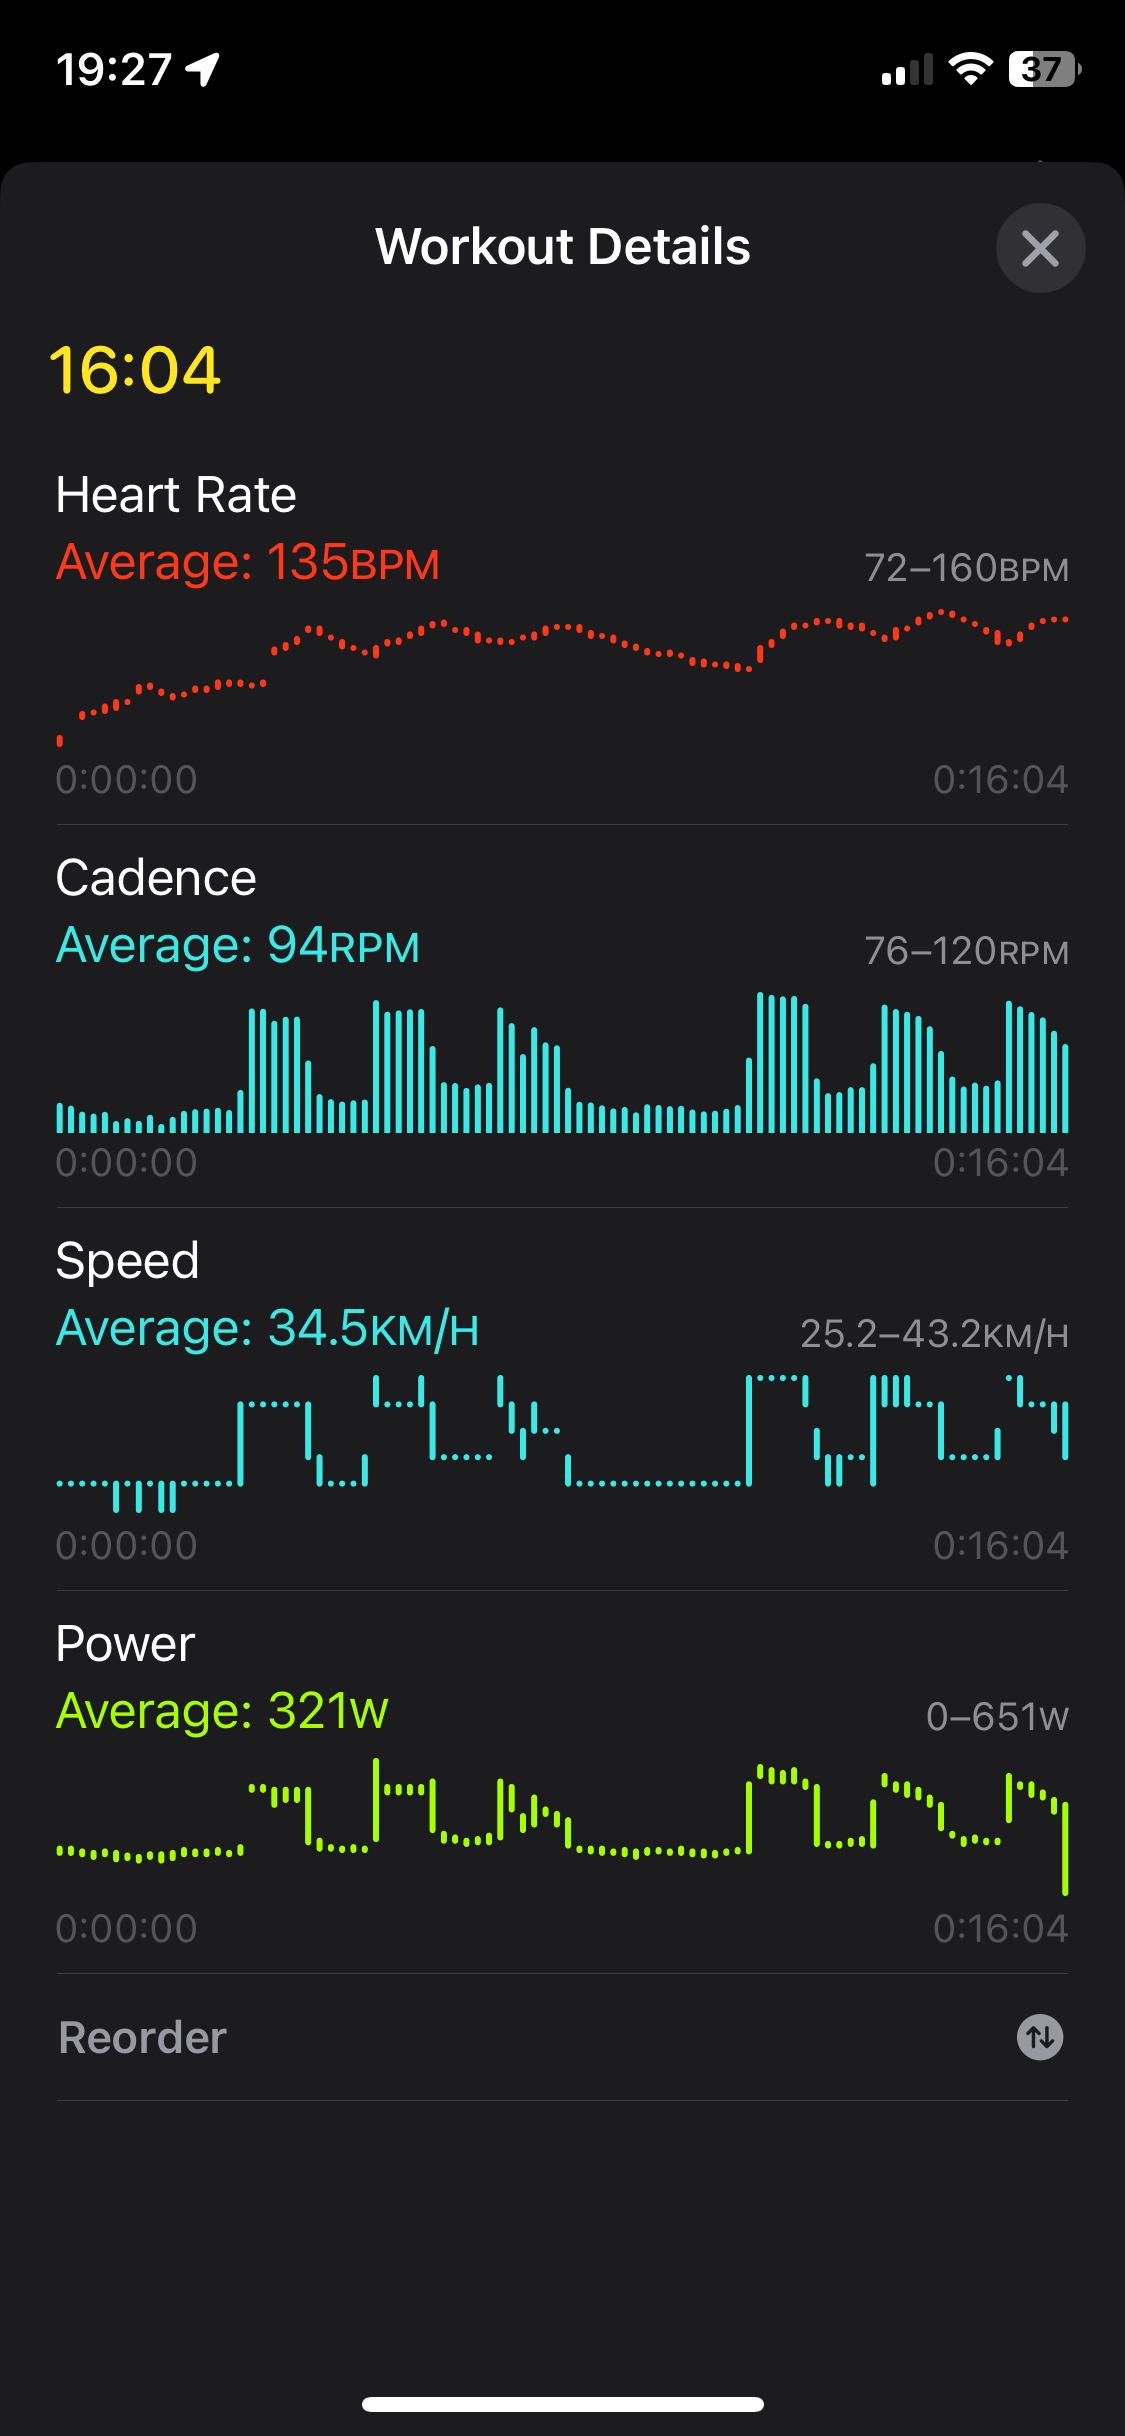
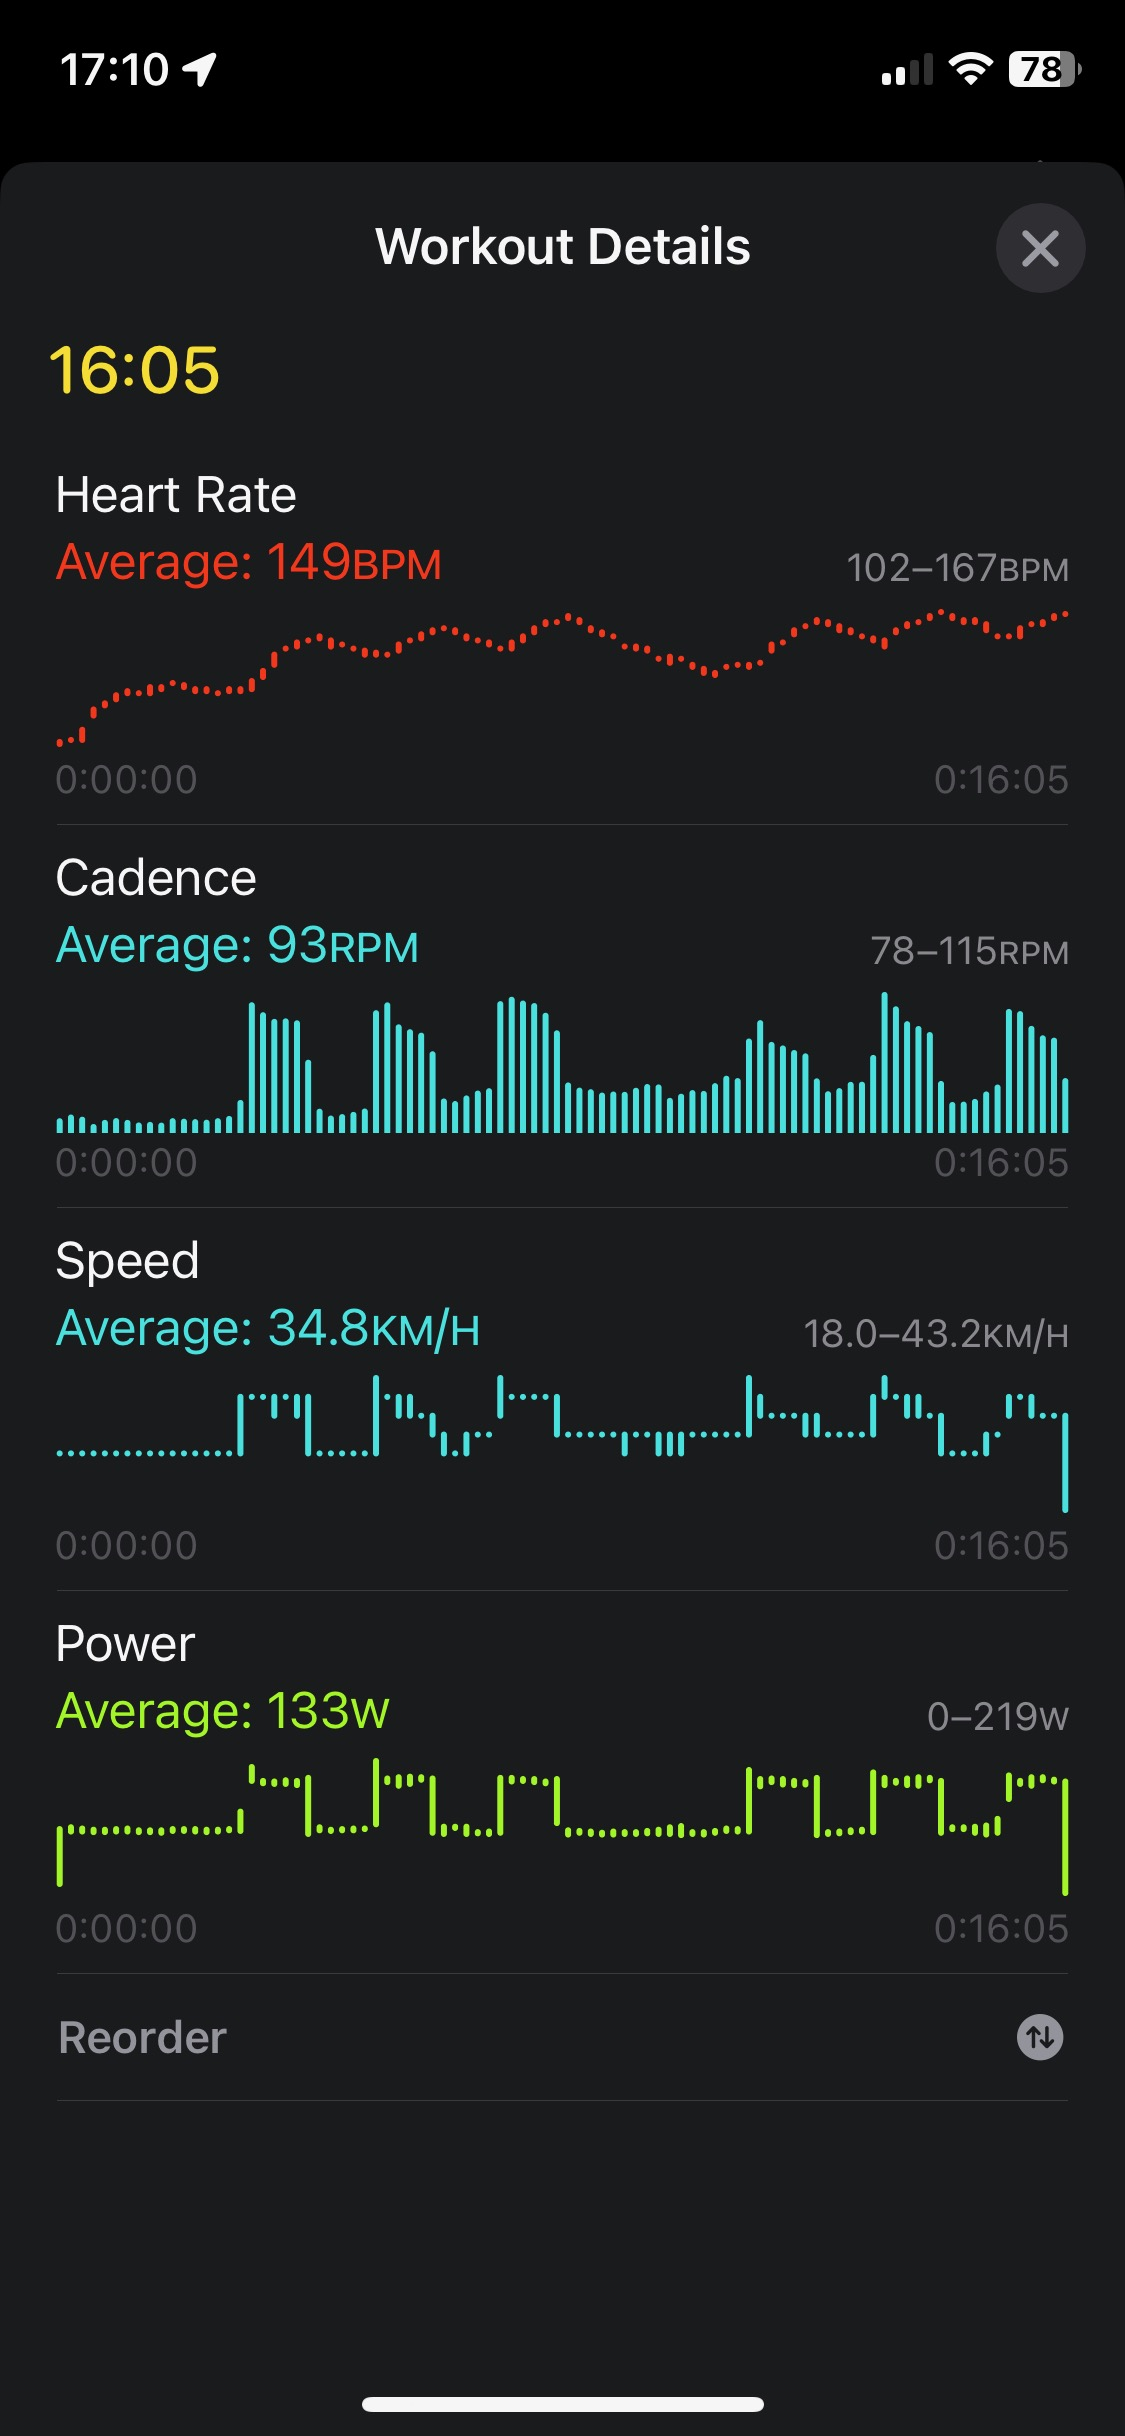
updated images

diff --git a/README.md b/README.md
@@ -10,9 +10,9 @@ The project targets the Apple Watch running watchOS 10 or later as a monitoring 
 
 ## Apple Watch and iOS Workout Details
 
-<img src="https://github.com/dbsqp/bluetooth-reebok-57e/blob/AppleWatch-branch/documentation/apple-watchos-bluetooth.jpeg?raw=true" width="200" /> <img src="https://github.com/dbsqp/bluetooth-reebok-57e/blob/AppleWatch-branch/documentation/apple-watchos-cycling-metrics.jpeg?raw=true" width="200" /> <img src="https://github.com/dbsqp/bluetooth-reebok-57e/blob/AppleWatch-branch/documentation/apple-watchos-cycling-power.jpeg?raw=true" width="200" />
+<img src="https://github.com/dbsqp/bluetooth-reebok-57e/blob/AppleWatch-branch/documentation/apple-watchos-bluetooth.jpeg?raw=true" width="200" /> <img src="https://github.com/dbsqp/bluetooth-reebok-57e/blob/AppleWatch-branch/documentation/apple-watchos-cycling-metrics.jpeg?raw=true" width="200" /> <img src="https://github.com/dbsqp/bluetooth-reebok-57e/blob/AppleWatch-branch/documentation/apple-watchos-cycling-power.jpeg?raw=true" width="200" /> <img src="https://github.com/dbsqp/bluetooth-reebok-57e/blob/AppleWatch-branch/documentation/apple-watchos-cycling-powerzone.jpeg?raw=true" width="200" />
 
-<img src="https://github.com/dbsqp/bluetooth-reebok-57e/blob/AppleWatch-branch/documentation/apple-ios-workout-details.jpeg?raw=true" width="200" /> <img src="https://github.com/dbsqp/bluetooth-reebok-57e/blob/AppleWatch-branch/documentation/apple-ios-workout-power.jpeg?raw=true" width="200" /> 
+<img src="https://github.com/dbsqp/bluetooth-reebok-57e/blob/AppleWatch-branch/documentation/apple-ios-workout-summary.jpeg?raw=true" width="200" /> <img src="https://github.com/dbsqp/bluetooth-reebok-57e/blob/AppleWatch-branch/documentation/apple-ios-workout-details.jpeg?raw=true" width="200" /> <img src="https://github.com/dbsqp/bluetooth-reebok-57e/blob/AppleWatch-branch/documentation/apple-ios-workout-power.jpeg?raw=true" width="200" /> 
 
 
 ## Bluetooth Service
